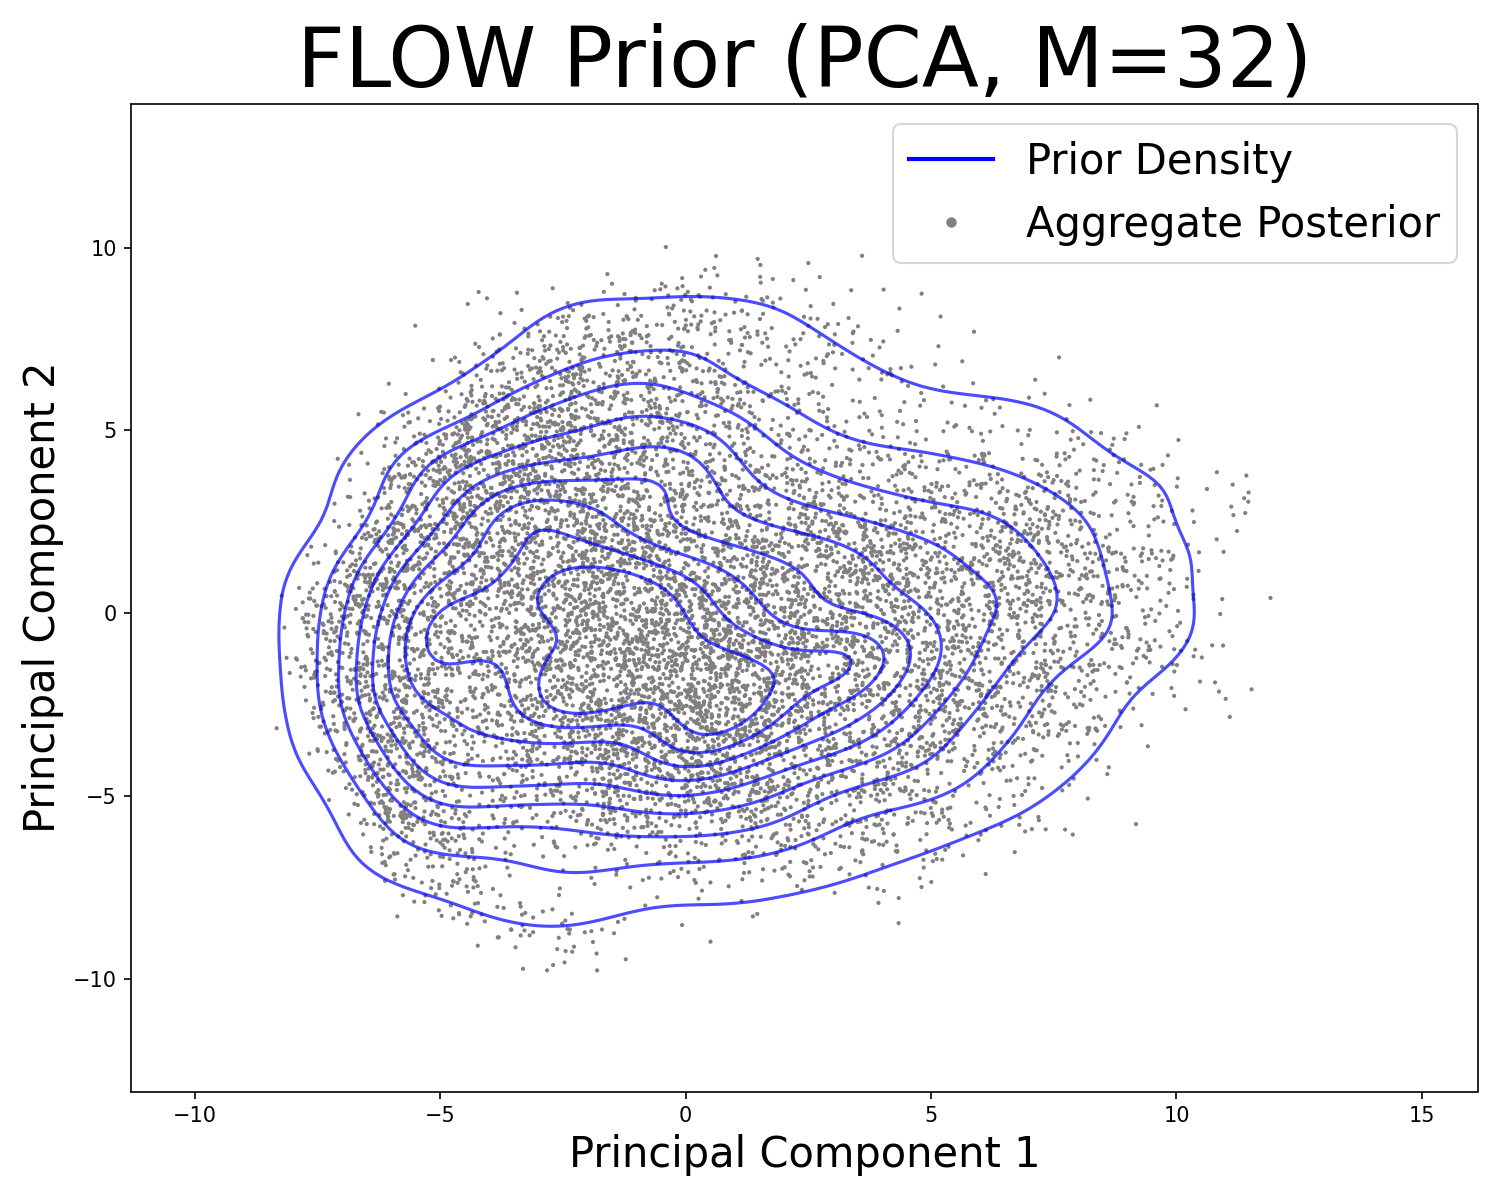
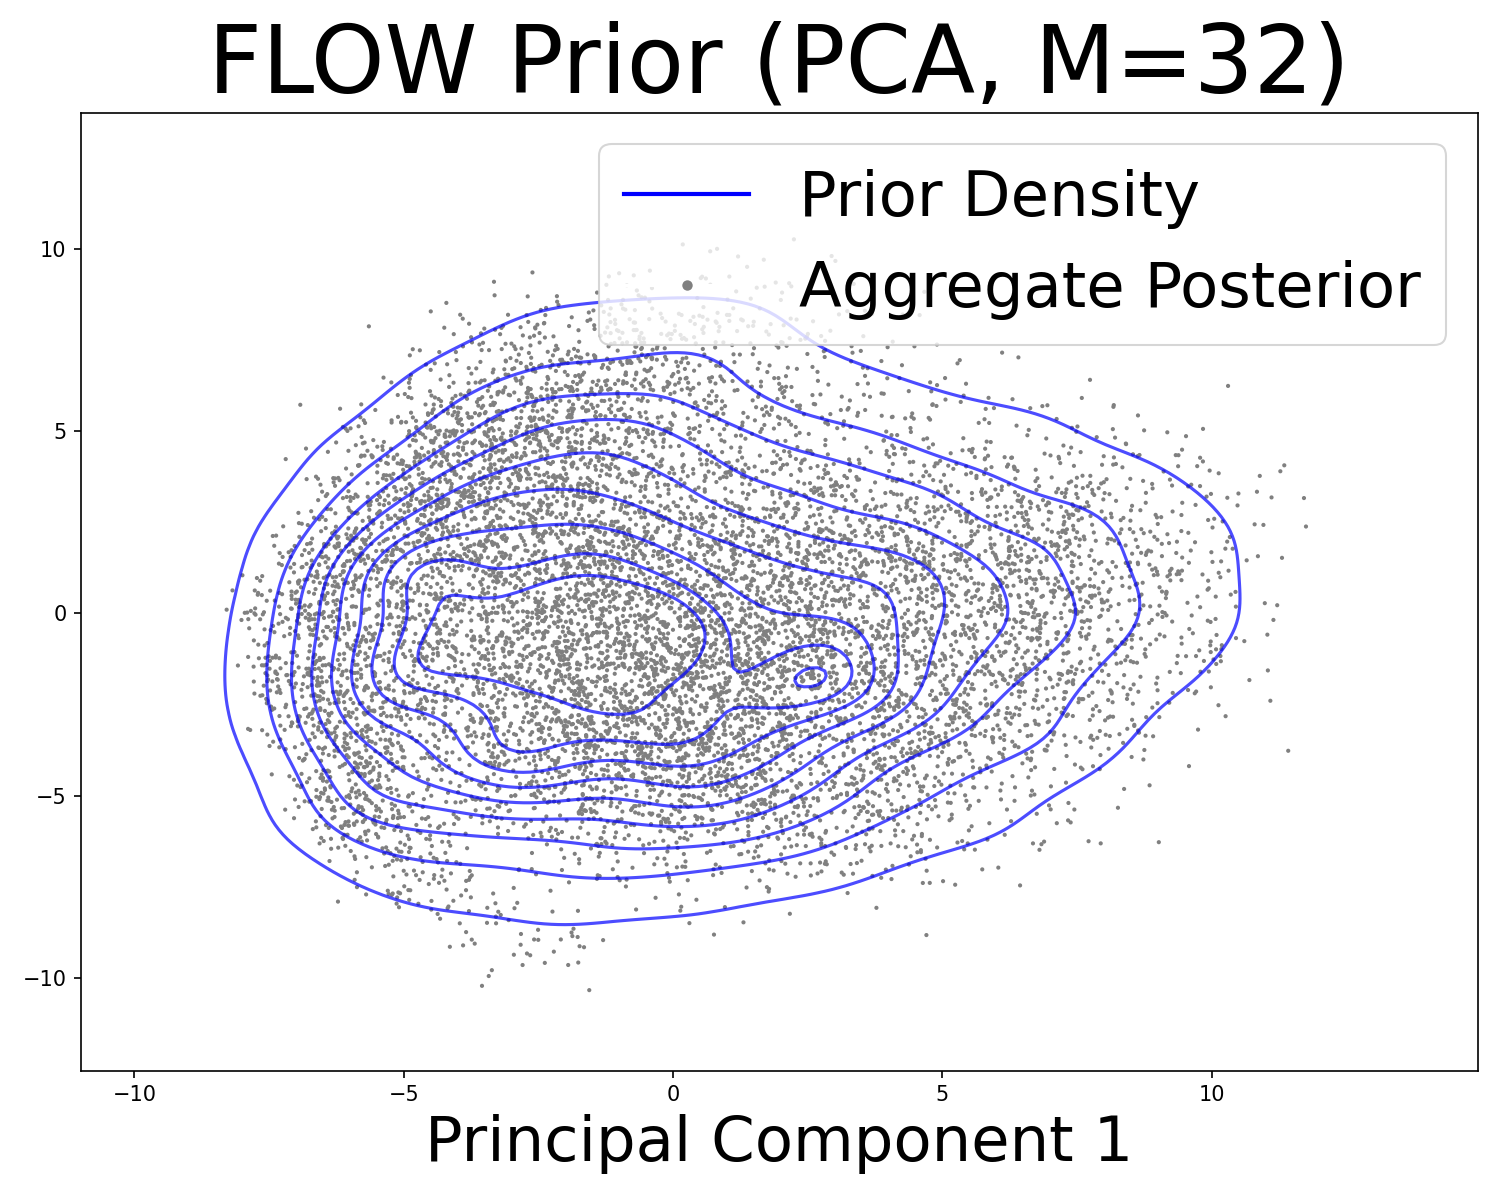
plot updates

diff --git a/mini1/plot.py b/mini1/plot.py
@@ -75,10 +75,10 @@ if __name__ == "__main__":
     prior_handle = mlines.Line2D([], [], color='blue', linewidth=2, label='Prior Density')
     agg_post_handle = mlines.Line2D([], [], marker='o', color='w', markerfacecolor='gray', markersize=6, label='Aggregate Posterior')
     
-    plt.legend(handles=[prior_handle, agg_post_handle], loc='upper right', fontsize=20)
-    plt.title(f'{args.prior.upper()} Prior (PCA, M={args.latent_dim})', fontsize=40)
-    plt.xlabel('Principal Component 1', fontsize=20)
-    plt.ylabel('Principal Component 2', fontsize=20)
+    plt.legend(handles=[prior_handle, agg_post_handle], loc='upper right', fontsize=30)
+    plt.title(f'{args.prior.upper()} Prior (PCA, M={args.latent_dim})', fontsize=45)
+    plt.xlabel('Principal Component 1', fontsize=30)
+    # plt.ylabel('Principal Component 2', fontsize=30)
     plt.tight_layout()
     sample_path = os.path.join(script_dir, f"model/{args.prior}/{args.prior}_run0_sample_plot.png")
     os.makedirs(os.path.dirname(sample_path), exist_ok=True)
